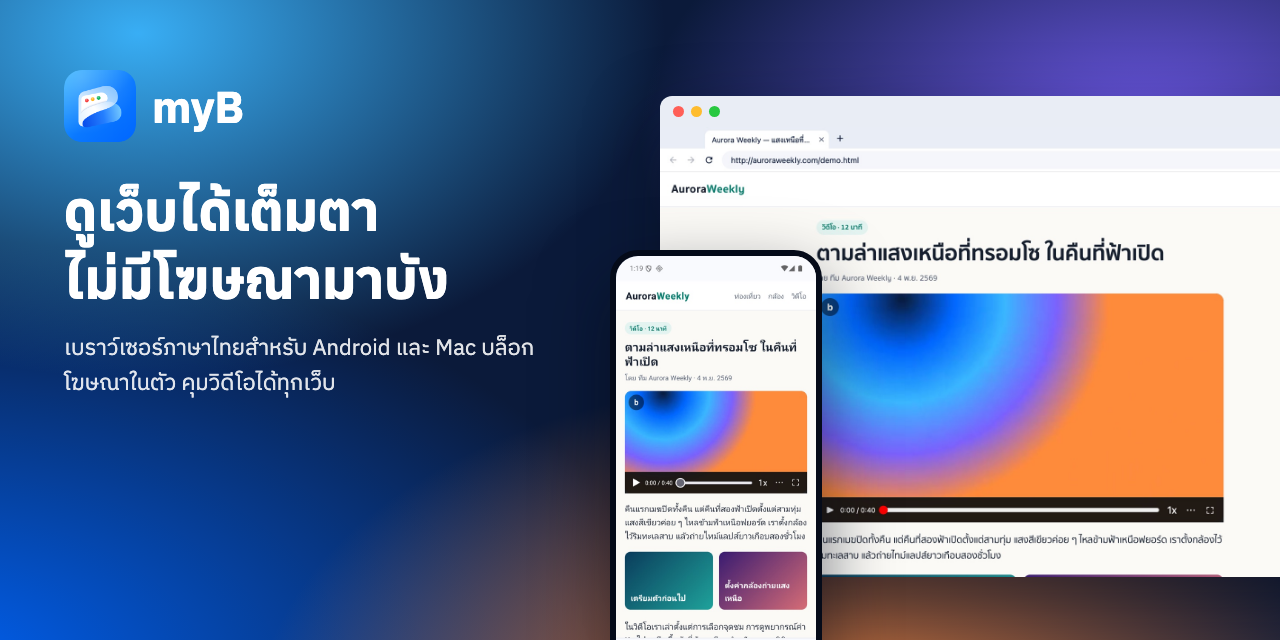
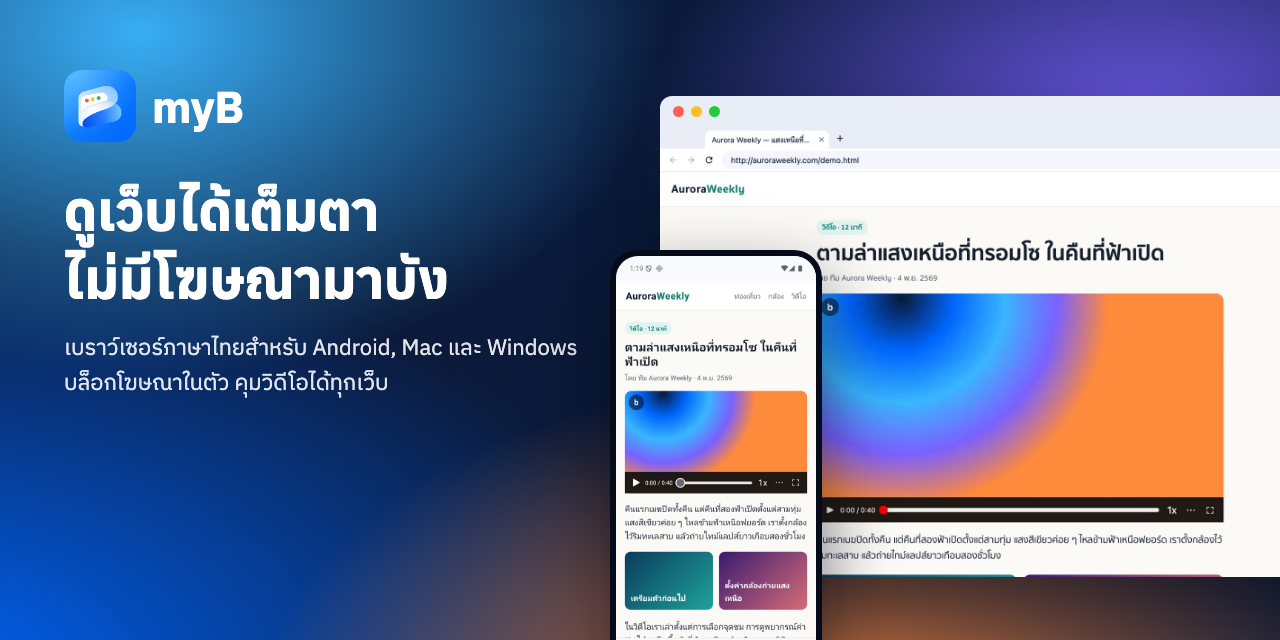
Website: Windows download and install steps, sticky navbar

Changed region(s): [[0.0312, 0.5625, 0.3125, 0.625], [0.3125, 0.5312, 0.4688, 0.5625]]

diff --git a/index.html b/index.html
@@ -3,9 +3,9 @@
 <head>
 <meta charset="utf-8">
 <meta name="viewport" content="width=device-width, initial-scale=1">
-<title>myB — เบราว์เซอร์สำหรับ Android และ Mac</title>
-<meta name="description" content="เบราว์เซอร์ภาษาไทย บล็อกโฆษณาในตัว มี player สำหรับวิดีโอทุกเว็บ ซับไทยอัตโนมัติ และ VPN เฉพาะ myB ใช้ฟรีบน Android และ Mac">
-<meta property="og:title" content="myB — เบราว์เซอร์สำหรับ Android และ Mac">
+<title>myB — เบราว์เซอร์สำหรับ Android, Mac และ Windows</title>
+<meta name="description" content="เบราว์เซอร์ภาษาไทย บล็อกโฆษณาในตัว มี player สำหรับวิดีโอทุกเว็บ ซับไทยอัตโนมัติ และ VPN เฉพาะ myB ใช้ฟรีบน Android, Mac และ Windows">
+<meta property="og:title" content="myB — เบราว์เซอร์สำหรับ Android, Mac และ Windows">
 <meta property="og:description" content="บล็อกโฆษณาในตัว คุมวิดีโอได้ทุกเว็บ ซับไทยอัตโนมัติ ใช้ฟรี">
 <meta property="og:image" content="https://lazymodthai.github.io/myb-updates/assets/banner.png">
 <meta property="og:type" content="website">
@@ -59,7 +59,18 @@
   .wrap { width: min(1120px, 100% - 32px); margin-inline: auto; }
 
   /* Top bar */
-  .top { display: flex; align-items: center; justify-content: space-between; padding: 18px 0; }
+  /* Sticky top bar: full width, translucent, a hairline once the page has scrolled under it. */
+  .topbar {
+    position: sticky; top: 0; z-index: 10;
+    background: color-mix(in srgb, var(--bg) 82%, transparent);
+    -webkit-backdrop-filter: saturate(1.4) blur(14px);
+    backdrop-filter: saturate(1.4) blur(14px);
+    border-bottom: 1px solid transparent;
+    transition: border-color .2s;
+  }
+  .topbar.scrolled { border-bottom-color: var(--line); }
+  .top { display: flex; align-items: center; justify-content: space-between; padding: 14px 0; }
+  .stage, section { scroll-margin-top: 84px; }
   .brand { display: flex; align-items: center; gap: 10px; font: 700 22px "Anuphan", sans-serif; color: var(--ink); text-decoration: none; }
   .brand img { width: 34px; height: 34px; border-radius: 9px; }
   .top nav { display: flex; gap: 22px; font-size: 15px; }
@@ -69,6 +80,7 @@
 
   /* Hero: the page opens on myB's own player — the "b" corner button and the bar. */
   .stage {
+    margin-top: 10px;
     position: relative;
     overflow: hidden;
     border-radius: 28px;
@@ -262,7 +274,7 @@
   @media (max-width: 700px) { .pair { grid-template-columns: minmax(0, 1fr); } .pair figure:first-child { width: 70%; } }
 
   /* Install */
-  .install { display: grid; grid-template-columns: repeat(2, minmax(0, 1fr)); gap: 24px; }
+  .install { display: grid; grid-template-columns: repeat(3, minmax(0, 1fr)); gap: 24px; }
   .platform { background: var(--surface); border: 1px solid var(--line); border-radius: 20px; padding: 28px; }
   .platform h3 { font-size: 24px; display: flex; align-items: baseline; gap: 10px; flex-wrap: wrap; }
   .platform h3 small { font: 400 15px "IBM Plex Sans Thai", sans-serif; color: var(--muted); }
@@ -282,7 +294,7 @@
     flex: none; border: 1px solid var(--line); background: var(--surface); color: var(--ink);
     border-radius: 8px; padding: 4px 10px; font: 500 13px "IBM Plex Sans Thai", sans-serif; cursor: pointer;
   }
-  @media (max-width: 760px) { .install { grid-template-columns: minmax(0, 1fr); } }
+  @media (max-width: 980px) { .install { grid-template-columns: minmax(0, 1fr); } }
 
   footer { margin-top: 110px; padding: 36px 0 48px; border-top: 1px solid var(--line); color: var(--muted); font-size: 15px; }
   footer .cols { display: flex; flex-wrap: wrap; gap: 14px 32px; justify-content: space-between; }
@@ -291,8 +303,8 @@
 </head>
 <body>
 
-<div class="wrap">
-  <header class="top">
+<header class="topbar">
+  <div class="wrap top">
     <a class="brand" href="#"><img src="assets/icon.png" alt="">myB</a>
     <nav aria-label="หัวข้อในหน้า">
       <a class="opt" href="#player">Player</a>
@@ -300,14 +312,17 @@
       <a href="#install">ติดตั้ง</a>
       <a href="https://github.com/lazymodthai/myb-updates/releases">Releases</a>
     </nav>
-  </header>
+  </div>
+</header>
+
+<div class="wrap">
 
   <div class="stage">
     <span class="corner" aria-hidden="true">b</span>
     <div class="stage-body">
       <div>
         <h1>ดูเว็บได้เต็มตา ไม่มีโฆษณามาบัง</h1>
-        <p class="lede">myB เป็นเบราว์เซอร์ภาษาไทยสำหรับ Android และ Mac บล็อกโฆษณาในตัว
+        <p class="lede">myB เป็นเบราว์เซอร์ภาษาไทยสำหรับ Android, Mac และ Windows บล็อกโฆษณาในตัว
           และมี player ของตัวเองบนวิดีโอทุกเว็บ แตะสองครั้งเพื่อข้าม กดค้างเพื่อดูเร็วขึ้น ใช้ฟรี ไม่ต้องสมัคร</p>
       </div>
       <div class="phone"><img src="assets/android-player.jpg" alt="myB บน Android กำลังเล่นวิดีโอ มีปุ่ม b และแถบควบคุมของ myB"></div>
@@ -322,7 +337,11 @@
         <svg viewBox="0 0 24 24" fill="currentColor" aria-hidden="true"><path d="M16.37 12.77c-.02-2.2 1.8-3.26 1.88-3.31-1.02-1.5-2.62-1.7-3.19-1.72-1.36-.14-2.65.8-3.34.8-.69 0-1.75-.78-2.88-.76A4.26 4.26 0 005.24 10c-1.54 2.67-.39 6.62 1.1 8.79.73 1.06 1.6 2.25 2.74 2.2 1.1-.04 1.51-.71 2.84-.71 1.32 0 1.7.71 2.86.69 1.18-.02 1.93-1.08 2.65-2.14a9.5 9.5 0 001.2-2.47 3.84 3.84 0 01-2.26-3.59zM14.2 6.3A3.83 3.83 0 0015.1 3.5a3.9 3.9 0 00-2.53 1.31 3.66 3.66 0 00-.92 2.72 3.24 3.24 0 002.55-1.23z"/></svg>
         ดาวน์โหลดสำหรับ Mac <small id="v-mac"></small>
       </a>
-      <span class="note">Android 8 ขึ้นไป (64-bit) และ Mac ชิป Apple Silicon</span>
+      <a class="dl" id="dl-windows" data-platform="windows" href="https://github.com/lazymodthai/myb-updates/releases">
+        <svg viewBox="0 0 24 24" fill="currentColor" aria-hidden="true"><path d="M3 5.5l7.4-1v7H3v-6zm0 13l7.4 1v-7H3v6zm8.3 1.1L21 21v-8.4h-9.7v7zm0-15.2v7.1H21V3l-9.7 1.4z"/></svg>
+        ดาวน์โหลดสำหรับ Windows <small id="v-windows"></small>
+      </a>
+      <span class="note">Android 8+ (64-bit), Mac ชิป Apple Silicon, Windows 10/11 (64-bit)</span>
     </div>
   </div>
 
@@ -363,7 +382,7 @@
       </div>
       <div class="phone-float"><img src="assets/android-browser.jpg" alt="myB บน Android เปิดหน้าเว็บ มีโล่บล็อกโฆษณาที่แถบล่าง" loading="lazy"></div>
     </div>
-    <p class="caption">หน้าตาเดียวกันบน Mac และมือถือ บน Mac ใช้คีย์บอร์ดได้ด้วย ← → เพื่อข้าม Space เพื่อเล่น/หยุด F เพื่อเต็มจอ</p>
+    <p class="caption">หน้าตาเดียวกันบนคอมพิวเตอร์และมือถือ บน Mac และ Windows ใช้คีย์บอร์ดได้ด้วย ← → เพื่อข้าม Space เพื่อเล่น/หยุด F เพื่อเต็มจอ</p>
   </section>
 
   <section id="features">
@@ -377,7 +396,7 @@
         <div>
           <h3>บล็อกโฆษณาในตัว</h3>
           <p>ใช้ AdGuard ร่วมกับตัวกรองของ myB ที่ทำมาสำหรับเว็บไทย ทั้งแบนเนอร์คาสิโนและโฆษณาคั่นก่อนวิดีโอ ปิดเฉพาะเว็บได้จากปุ่มโล่</p>
-          <span class="where">Android และ Mac</span>
+          <span class="where">Android, Mac และ Windows</span>
         </div>
       </div>
       <div class="feature">
@@ -393,23 +412,23 @@
         <div>
           <h3>VPN เฉพาะ myB</h3>
           <p>นำเข้า WireGuard จาก wg-easy ด้วยการสแกน QR หรือไฟล์ .conf เฉพาะ myB ที่วิ่งผ่าน VPN แอปอื่นไม่ได้รับผล ถ้า VPN หลุด myB จะหยุดโหลดทันที</p>
-          <span class="where">Android และ Mac</span>
+          <span class="where">Android, Mac และ Windows</span>
         </div>
       </div>
       <div class="feature">
         <span class="ic"><svg viewBox="0 0 24 24" fill="currentColor" aria-hidden="true"><path d="M7 2h10a2 2 0 012 2v16a2 2 0 01-2 2H7a2 2 0 01-2-2V4a2 2 0 012-2zm0 3v13h10V5H7zm5 14.2a1 1 0 100 2 1 1 0 000-2z"/></svg></span>
         <div>
-          <h3>มือถือเป็นรีโมทของ Mac</h3>
-          <p>ชี้มือถือเพื่อเลื่อนเคอร์เซอร์ พิมพ์จากคีย์บอร์ดมือถือ และคุมวิดีโอเต็มจอบน Mac ส่งหน้าเว็บจากมือถือไปเปิดบน Mac ได้ทันที ทุกข้อความเข้ารหัสตลอดทาง</p>
-          <span class="where">Android + Mac</span>
+          <h3>มือถือเป็นรีโมทของคอมพิวเตอร์</h3>
+          <p>ชี้มือถือเพื่อเลื่อนเคอร์เซอร์ พิมพ์จากคีย์บอร์ดมือถือ และคุมวิดีโอเต็มจอบน Mac หรือ Windows ส่งหน้าเว็บจากมือถือไปเปิดบนคอมได้ทันที ทุกข้อความเข้ารหัสตลอดทาง</p>
+          <span class="where">Android + Mac / Windows</span>
         </div>
       </div>
       <div class="feature">
         <span class="ic"><svg viewBox="0 0 24 24" fill="currentColor" aria-hidden="true"><path d="M17 9V7A5 5 0 007 7v2a2 2 0 00-2 2v9a2 2 0 002 2h10a2 2 0 002-2v-9a2 2 0 00-2-2zM9 7a3 3 0 016 0v2H9V7zm4 9.7V18h-2v-1.3a2 2 0 112 0z"/></svg></span>
         <div>
           <h3>ล็อกด้วย PIN</h3>
-          <p>ตั้ง PIN 6 หลัก myB จะล็อกเมื่อเปิดแอปหรือกลับมาหลังพักไว้ บน Mac ล็อกตามหน้าจอ และไม่ติดในภาพแคปหน้าจอ</p>
-          <span class="where">Android และ Mac</span>
+          <p>ตั้ง PIN 6 หลัก myB จะล็อกเมื่อเปิดแอปหรือกลับมาหลังพักไว้ บนคอมพิวเตอร์ล็อกตามหน้าจอ และไม่ติดในภาพแคปหน้าจอ</p>
+          <span class="where">Android, Mac และ Windows</span>
         </div>
       </div>
       <div class="feature">
@@ -460,6 +479,15 @@
         </ol>
         <a class="dl primary" data-platform="mac" href="https://github.com/lazymodthai/myb-updates/releases">ดาวน์โหลด .dmg <small class="v-mac"></small></a>
       </div>
+      <div class="platform">
+        <h3>Windows <small>10 และ 11, 64-bit</small></h3>
+        <ol>
+          <li>ดาวน์โหลดไฟล์ <strong>.exe</strong> แล้วเปิด</li>
+          <li>ครั้งแรก Windows อาจขึ้น “Windows protected your PC” เพราะแอปยังไม่ได้เซ็นด้วยใบรับรองที่ต้องซื้อ ให้กด <strong>More info</strong> → <strong>Run anyway</strong></li>
+          <li>myB ติดตั้งเองโดยไม่ต้องใช้สิทธิ์ผู้ดูแลระบบ แล้วเปิดให้ทันที มีไอคอนบนเดสก์ท็อปและใน Start</li>
+        </ol>
+        <a class="dl primary" data-platform="windows" href="https://github.com/lazymodthai/myb-updates/releases">ดาวน์โหลด .exe <small class="v-windows"></small></a>
+      </div>
     </div>
   </section>
 
@@ -492,18 +520,23 @@
       set('android', u.latest?.apk?.url, u.latest?.versionName);
       const zip = u.macos?.arm64?.url;
       set('mac', zip && zip.replace(/-arm64-mac\.zip$/, '-arm64.dmg'), u.macos?.version);
+      set('windows', u.windows?.x64?.url, u.windows?.version);
     })
     .catch(() => {});
 
-  // Put the visitor's own platform first in the hero.
-  const mac = /Macintosh/.test(navigator.userAgent); // iPhone user agents also say "Mac OS X"
-  if (mac) {
-    const android = document.getElementById('dl-android');
-    const macBtn = document.getElementById('dl-mac');
-    android.classList.remove('primary');
-    macBtn.classList.add('primary');
-    macBtn.after(android);
+  // Put the visitor's own platform first in the hero (iPhone user agents also say "Mac OS X": Macintosh only).
+  const ua = navigator.userAgent;
+  const own = /Windows NT/.test(ua) ? 'windows' : /Macintosh/.test(ua) ? 'mac' : null;
+  if (own) {
+    const first = document.getElementById(`dl-${own}`);
+    document.querySelectorAll('.bar .dl').forEach((a) => a.classList.toggle('primary', a === first));
+    first.parentElement.insertBefore(first, document.getElementById('dl-android'));
   }
+
+  const topbar = document.querySelector('.topbar');
+  const onScroll = () => topbar.classList.toggle('scrolled', window.scrollY > 4);
+  addEventListener('scroll', onScroll, { passive: true });
+  onScroll();
 
   document.querySelectorAll('button[data-copy]').forEach((b) => {
     b.addEventListener('click', () => {
